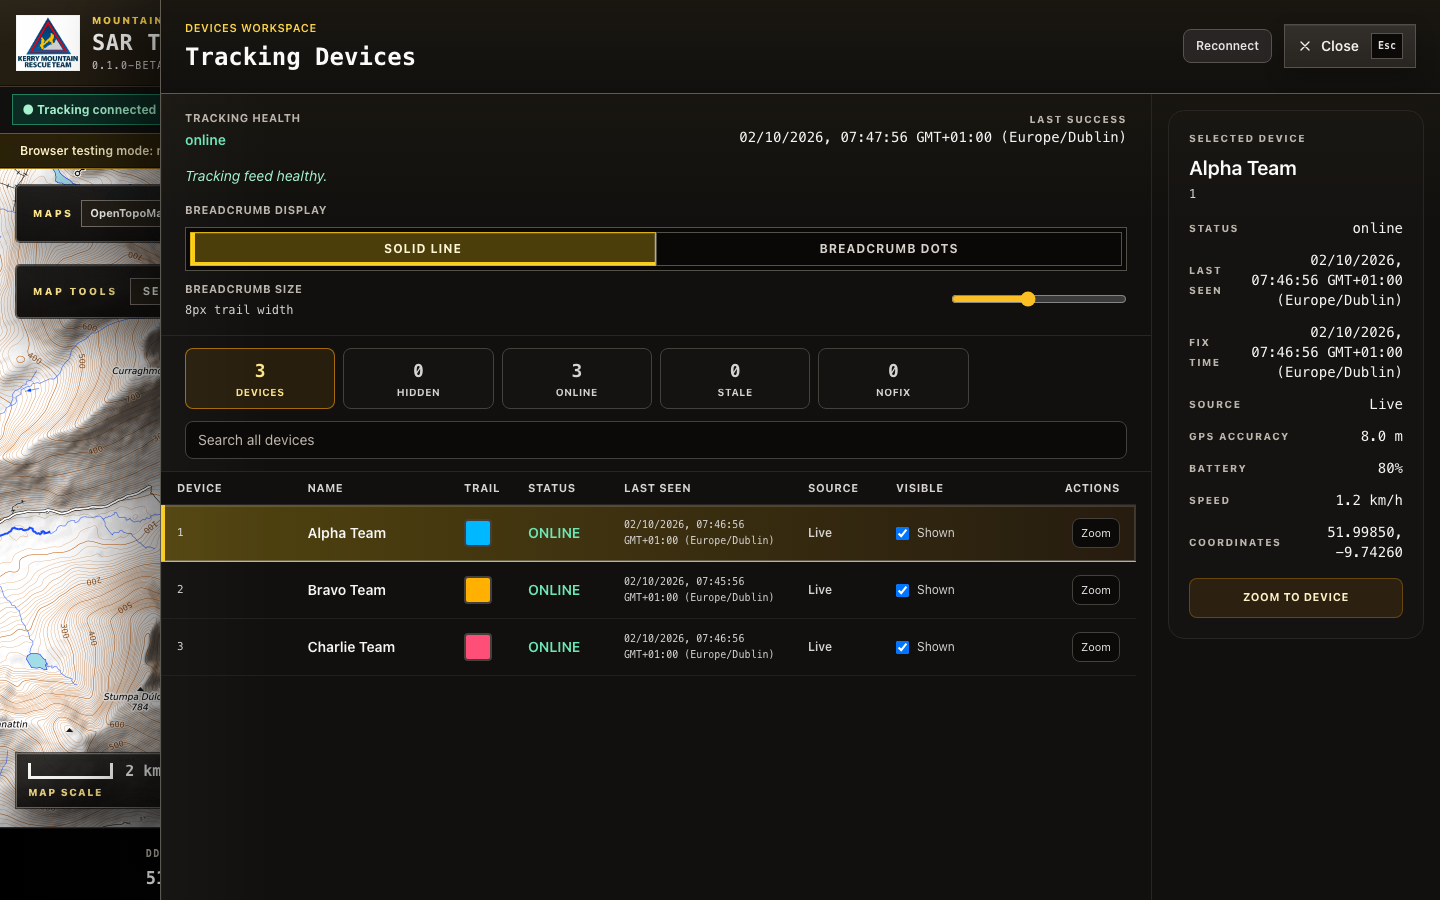
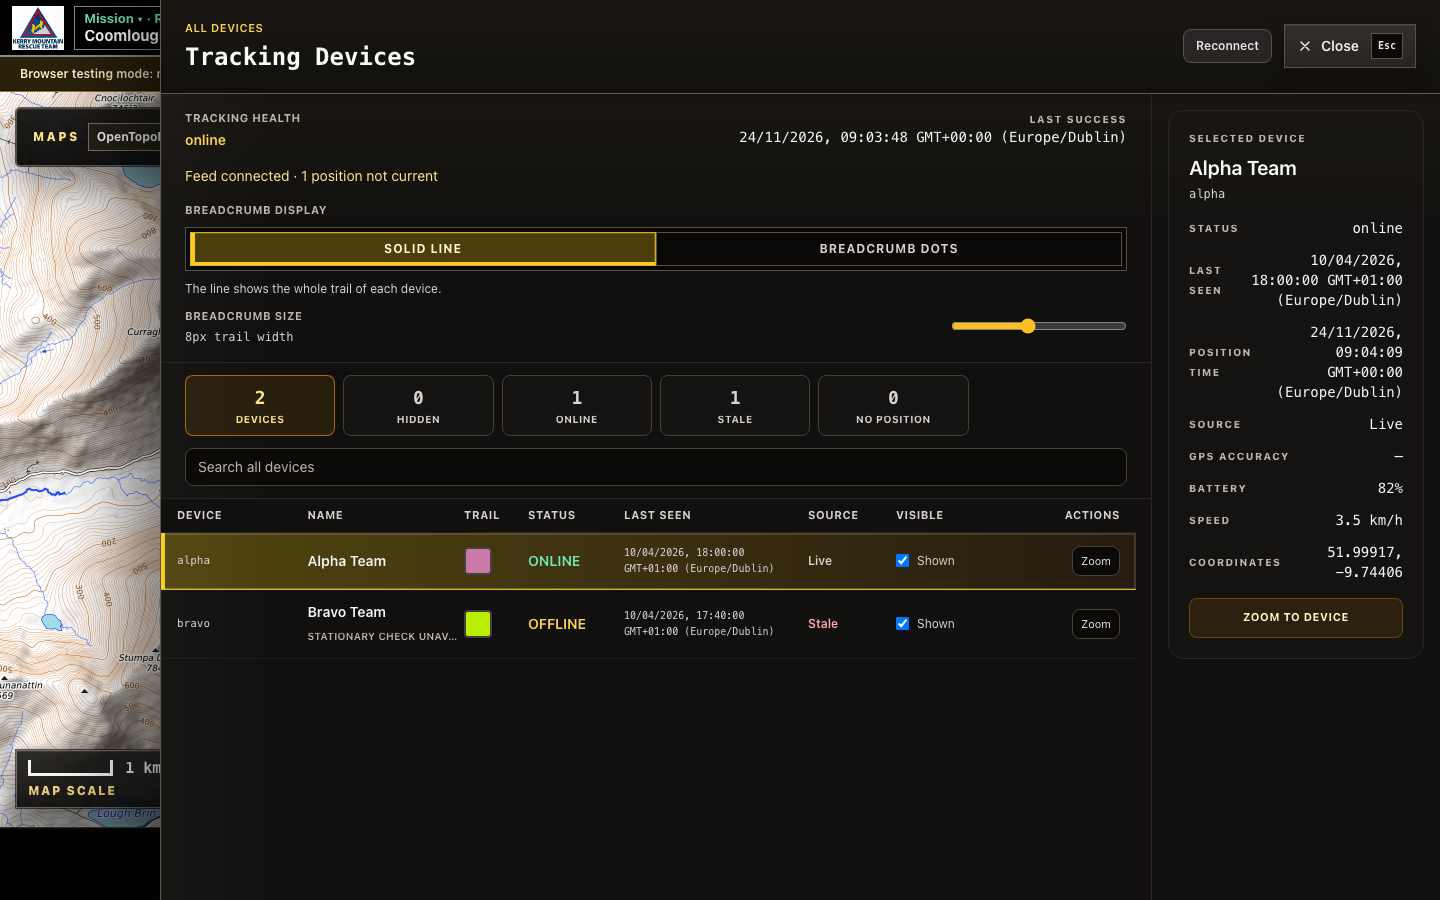
test(participants),docs(manual): assert fold rows are visible; recapture Mission and All devices images [DON-368]
Participant specs open the running fold and check rows are visible before
reading their text. The manual's Mission panel and All devices images are
recaptured for the new layout, with a docked view after Zoom, and the
stale-position examples use the current wording.

diff --git a/public/manual/index.html b/public/manual/index.html
@@ -577,8 +577,8 @@
 
           <h3 id="mission-people">Add or remove a team during the mission</h3>
           <figure class="screenshot narrow">
-            <img src="assets/mission-control-active.png" alt="Mission Control during an active mission: Pause and Finish, and a one-line summary of who is taking part" />
-            <figcaption>Mission Control while active. Pause and Finish always show; who is taking part is one line. The search clock is in the top bar.</figcaption>
+            <img src="assets/mission-control-active.png" alt="The Mission panel during an active mission: People on this mission as one line, Change who's taking part folded, Review and replay, More mission options, Pause and Finish" />
+            <figcaption>The Mission panel while running. Who is taking part is one line; Pause and Finish always show. The search clock is in the top bar.</figcaption>
           </figure>
           <p>
             During a mission, <strong>People on this mission</strong> is one line, such as
@@ -769,7 +769,7 @@
               <tr><td>Red alarm <strong>MISSION RECORD NOT FULLY SAVED: positions are live, but open this before finishing</strong></td><td>Part of the mission record could not be saved. Positions are still updating.</td><td>Keep the app open and carry on. Do not finish the mission yet. Open <strong>More</strong>, then <strong>Diagnostics</strong>, and send the support bundle.</td></tr>
               <tr><td>Amber <strong>1 time unverified</strong></td><td>The tracker sent a position without a trustworthy fix time. It is shown for safety but is not used as exact trail evidence.</td><td>Use the position with care and note the device. Ask an admin to look if it keeps happening.</td></tr>
               <tr><td>Amber <strong>2 stale</strong></td><td>Two devices have not reported for more than five minutes.</td><td>Call the teams. Do not assume the dots are where they are.</td></tr>
-              <tr><td>Amber <strong>FIX TIME AHEAD OF THIS LAPTOP</strong>; device shows <strong>Fix time ahead of laptop clock</strong></td><td>A fix time is more than two minutes later than this laptop's clock. Either the laptop clock is behind or the tracker sends the wrong time zone. The device counts as stale until its fixes are back in step.</td><td>Check the laptop's date and time. If only one device is affected, call the team and ask an admin to check that tracker's time setting. Do not treat its dot as live.</td></tr>
+              <tr><td>Amber <strong>FIX TIME AHEAD OF THIS LAPTOP</strong>; device shows <strong>Position time ahead of laptop clock</strong></td><td>A fix time is more than two minutes later than this laptop's clock. Either the laptop clock is behind or the tracker sends the wrong time zone. The device counts as stale until its fixes are back in step.</td><td>Check the laptop's date and time. If only one device is affected, call the team and ask an admin to check that tracker's time setting. Do not treat its dot as live.</td></tr>
               <tr><td>Red <strong>TRACKING LOST</strong>, with <strong>LIVE REFRESH SUSPENDED — new positions are not being saved to the mission record</strong> in the Tracking panel</td><td>The app is waiting for the mission record to accept positions it already has. Until it does, it fetches no new ones, and the dots go stale on schedule.</td><td>Treat every position as old and call teams for their locations. If it does not clear within a few minutes, save your work, restart the app and tell an admin.</td></tr>
             </tbody>
           </table>
@@ -806,22 +806,26 @@
             support report if it stays.
           </p>
 
-          <h3 id="devices">Devices workspace</h3>
+          <h3 id="devices">All devices</h3>
           <figure class="screenshot">
-            <img src="assets/devices-workspace.png" alt="Devices workspace listing three teams with trail colours, status, last seen and a Zoom button, and a selected-device panel" />
-            <figcaption>Open it with <strong>Open Devices</strong> in the Tracking panel. Close it with <strong>Close</strong> or Esc.</figcaption>
+            <img src="assets/devices-workspace.png" alt="All devices at full width listing two teams with trail colours, status, last seen, source and a Zoom button, and a selected-device panel" />
+            <figcaption>Open it with <strong>All devices</strong> at the top of the People panel. Close it with <strong>Close</strong> or Esc.</figcaption>
+          </figure>
+          <figure class="screenshot">
+            <img src="assets/devices-docked.png" alt="All devices narrowed to a strip on the left after Zoom, with the device ringed on the map beside it and Stale written under a stale device's name" />
+            <figcaption>After <strong>Zoom</strong>: the list narrows and the device is ringed on the map beside it. A stale position says <em>Stale</em> under the name.</figcaption>
           </figure>
           <ul>
             <li><strong>Filters</strong> along the top: Devices, Hidden, Online, Stale, No position. The search box searches inside the chosen filter.</li>
             <li><strong>Trail</strong> colour: click a swatch to pick a colour for that device's dot and trail.</li>
             <li><strong>Visible</strong>: untick <em>Shown</em> to hide a device's dot without removing it from the mission.</li>
-            <li><strong>Zoom</strong> jumps the map to the device (not available if it has no position) and narrows the list to a strip on the left, as Review does, so you can see the map. Press <strong>Full width</strong> to widen it again.</li>
+            <li><strong>Zoom</strong> jumps the map to the device (not available if it has no position) and narrows the list to a strip on the left, as Review does. The device is placed in the part of the map you can still see, and your filter and search stay as they were. In the narrow list a position that is not live says so under the name, for example <em>Stale</em>, <em>Saved earlier</em> or <em>Last known</em>. Press <strong>Full width</strong> to widen it again.</li>
             <li>The <strong>selected device</strong> panel shows status, <strong>Last seen</strong>, <strong>Position time</strong>, source, GPS accuracy, battery, speed and coordinates. Times are local, with the time zone and UTC offset.</li>
             <li><strong>Reconnect</strong> reloads settings and reconnects to the tracking server. Until a device sends a fresh fix it shows <strong>Unknown</strong> / <em>Last known</em>, not Online.</li>
-            <li>A position that is not current (older than 5 minutes, with a fix time ahead of this laptop's clock, or from an expired cache) always shows <strong>Stale</strong> in red in the <strong>Source</strong> column, also when its time is not verified or tracking is offline (for example <em>Stale · Fix time unverified</em> or <em>Stale · Last known</em>). Its status is then not shown in green, because the device is not reporting a current position.</li>
+            <li>A position that is not current (older than 5 minutes, with a fix time ahead of this laptop's clock, or from an expired cache) always shows <strong>Stale</strong> in red in the <strong>Source</strong> column, also when its time is not verified or tracking is offline (for example <em>Stale · Position time not confirmed</em> or <em>Stale · Last known</em>). Its status is then not shown in green, because the device is not reporting a current position.</li>
             <li>The line under <strong>Tracking health</strong> is green (<em>Tracking feed healthy.</em>) only when tracking is online, nothing is wrong, and every position is current. When positions are not current it reads amber, for example <em>Feed connected · 2 positions not current</em>; when tracking is also offline or not connected it says so first, for example <em>Tracking offline · 2 positions not current</em>.</li>
           </ul>
-          <p>Who is tracked, saved and shown is decided only by <strong>Participants</strong> in Mission Control. The Devices workspace does not change it.</p>
+          <p>Who is tracked, saved and shown is decided only by <strong>People on this mission</strong> in the Mission panel. All devices does not change it.</p>
 
           <h3>Breadcrumbs: line or dots</h3>
           <ul>

diff --git a/tests/e2e/participants.spec.ts b/tests/e2e/participants.spec.ts
@@ -50,7 +50,7 @@ test.describe('mission participants [DON-271]', () => {
     await page.getByTestId('mission-start-btn').click()
     await expect(page.getByTestId('mission-participants-section-summary')).toContainText('1 group')
     await openMissionSections(page, ['participants'])
-    await expect(page.getByTestId('participant-active-list')).toContainText('Hill Team')
+    await expectShown(page.getByTestId('participant-active-list'), 'Hill Team')
   })
 
   test('keeps pre-start selections for a mission started after finishing an earlier one [DON-292]', async ({ page }) => {
@@ -71,9 +71,11 @@ test.describe('mission participants [DON-271]', () => {
     await page.getByTestId('mission-name-input').fill('Second Mission')
     await page.getByTestId('mission-offset-input').fill('2')
     await page.getByTestId('mission-start-btn').click()
+    // The list folds behind "Change who's taking part" while running (DON-368).
+    await openMissionSections(page, ['participants'])
 
-    await expect(page.getByTestId('participant-active-list')).toContainText('Hill Team')
-    await expect(page.getByTestId('participant-active-list')).toContainText('Alpha Team')
+    await expectShown(page.getByTestId('participant-active-list'), 'Hill Team')
+    await expectShown(page.getByTestId('participant-active-list'), 'Alpha Team')
     const recorded = await page.evaluate(() => {
       const state = window.__SARTRACKER_BROWSER_HARNESS__?.readState()
       const mission = state?.missions.find((entry) => entry.name === 'Second Mission')
@@ -93,8 +95,10 @@ test.describe('mission participants [DON-271]', () => {
     await page.getByTestId('mission-name-input').fill('Participant Flow')
     await page.getByTestId('mission-offset-input').fill('2')
     await page.getByTestId('mission-start-btn').click()
-    await expect(page.getByTestId('participant-active-list')).toContainText('Alpha Team')
-    await expect(page.getByTestId('participant-backfill-status')).toContainText('still loading')
+    // The list folds behind "Change who's taking part" while running (DON-368).
+    await openMissionSections(page, ['participants'])
+    await expectShown(page.getByTestId('participant-active-list'), 'Alpha Team')
+    await expectShown(page.getByTestId('participant-backfill-status'), 'still loading')
 
     await injectTwoDeviceSnapshot(page)
     const initiallyPersistedDeviceIds = await page.evaluate(() =>
@@ -112,8 +116,8 @@ test.describe('mission participants [DON-271]', () => {
     })
     await page.getByTestId('participant-effective-from').fill(earlierLocalTime)
     await page.getByTestId('participant-add-btn').click()
-    await expect(page.getByTestId('participant-active-list')).toContainText('Bravo Team')
-    await expect(page.getByTestId('participant-backfill-status').last()).toContainText('still loading')
+    await expectShown(page.getByTestId('participant-active-list'), 'Bravo Team')
+    await expectShown(page.getByTestId('participant-backfill-status').last(), 'still loading')
 
     await injectTwoDeviceSnapshot(page)
     await expect(page.getByTestId('ws-toggle-people')).toContainText('People 2')
@@ -144,8 +148,8 @@ test.describe('mission participants [DON-271]', () => {
     await expect(page.getByTestId('participant-add-btn')).toBeDisabled()
     await page.getByTestId('participant-history-start-mission').check()
     await page.getByTestId('participant-add-btn').click()
-    await expect(page.getByTestId('participant-active-list')).toContainText('Alpha Team')
-    await expect(page.getByTestId('participant-backfill-status')).toContainText('still loading')
+    await expectShown(page.getByTestId('participant-active-list'), 'Alpha Team')
+    await expectShown(page.getByTestId('participant-backfill-status'), 'still loading')
 
     await page.getByTestId('participant-add-ref').selectOption('2')
     await page.getByTestId('participant-history-start-now').check()
@@ -183,7 +187,9 @@ test.describe('mission participants [DON-271]', () => {
     await expect(groupCoveredDevice).toBeDisabled()
     await page.getByTestId('mission-name-input').fill('Group Follow Mission')
     await page.getByTestId('mission-start-btn').click()
-    await expect(page.getByTestId('participant-backfill-status')).toContainText(
+    // The list folds behind "Change who's taking part" while running (DON-368).
+    await openMissionSections(page, ['participants'])
+    await expectShown(page.getByTestId('participant-backfill-status'),
       'loading for 1 of 1 people',
     )
 
@@ -206,7 +212,7 @@ test.describe('mission participants [DON-271]', () => {
     await expect(page.getByTestId('participant-membership-notice').last()).toContainText(
       'No earlier evidence was invented',
     )
-    await expect(page.getByTestId('participant-active-list')).toContainText('Hill Team')
+    await expectShown(page.getByTestId('participant-active-list'), 'Hill Team')
     await expect(page.getByTestId('participant-active-list')).not.toContainText('renamed server-side')
     const state = await page.evaluate(() => window.__SARTRACKER_BROWSER_HARNESS__?.readState())
     expect(state?.groupMembershipEvents.map((event) => [event.traccar_device_id, event.change])).toEqual(
@@ -228,7 +234,7 @@ test.describe('mission participants [DON-271]', () => {
     await page.getByTestId('participant-add-ref').selectOption('2')
     await page.getByTestId('participant-history-start-now').check()
     await page.getByTestId('participant-add-btn').click()
-    await expect(page.getByTestId('participant-active-list')).toContainText('Bravo Team')
+    await expectShown(page.getByTestId('participant-active-list'), 'Bravo Team')
 
     await page.evaluate(async () => {
       const observedAt = new Date().toISOString()
@@ -282,7 +288,9 @@ test.describe('mission participants [DON-271]', () => {
     await page.getByTestId('mission-name-input').fill('Backfill Finish Fence Mission')
     await page.getByTestId('mission-offset-input').fill('2')
     await page.getByTestId('mission-start-btn').click()
-    await expect(page.getByTestId('participant-backfill-status')).toContainText('still loading')
+    // The list folds behind "Change who's taking part" while running (DON-368).
+    await openMissionSections(page, ['participants'])
+    await expectShown(page.getByTestId('participant-backfill-status'), 'still loading')
 
     await openMissionSections(page, ['participants'])
 
@@ -327,7 +335,7 @@ test.describe('mission participants [DON-271]', () => {
     await expect(page.getByTestId('participant-warnings')).toContainText(
       'Participant group already covers an active individual device.',
     )
-    await expect(page.getByTestId('participant-active-list')).toContainText('Alpha Team')
+    await expectShown(page.getByTestId('participant-active-list'), 'Alpha Team')
     await expect(page.getByTestId('participant-active-list')).not.toContainText('Hill Team')
     const state = await page.evaluate(() => window.__SARTRACKER_BROWSER_HARNESS__?.readState())
     expect(state?.missionParticipants.filter((participant) => participant.removed_at === null)).toHaveLength(1)
@@ -410,4 +418,16 @@ async function injectSnapshotWithoutCurrentFixes(
       rawBreadcrumbsForPersistence: [],
     })
   })
+}
+
+/**
+ * Asserts fold content is on screen as well as in the DOM: a participant row
+ * inside the closed "Change who's taking part" fold is not visible (DON-368).
+ */
+async function expectShown(
+  locator: import('@playwright/test').Locator,
+  text: string | RegExp,
+): Promise<void> {
+  await expect(locator).toBeVisible()
+  await expect(locator).toContainText(text)
 }
